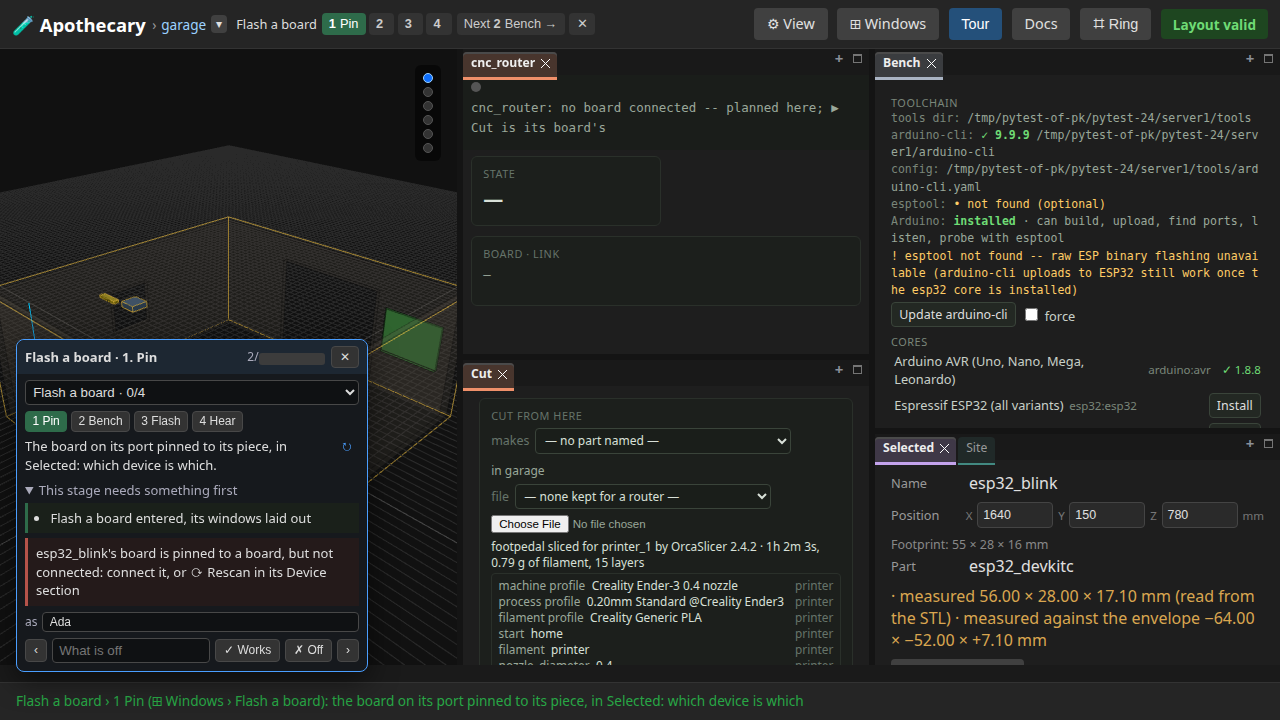
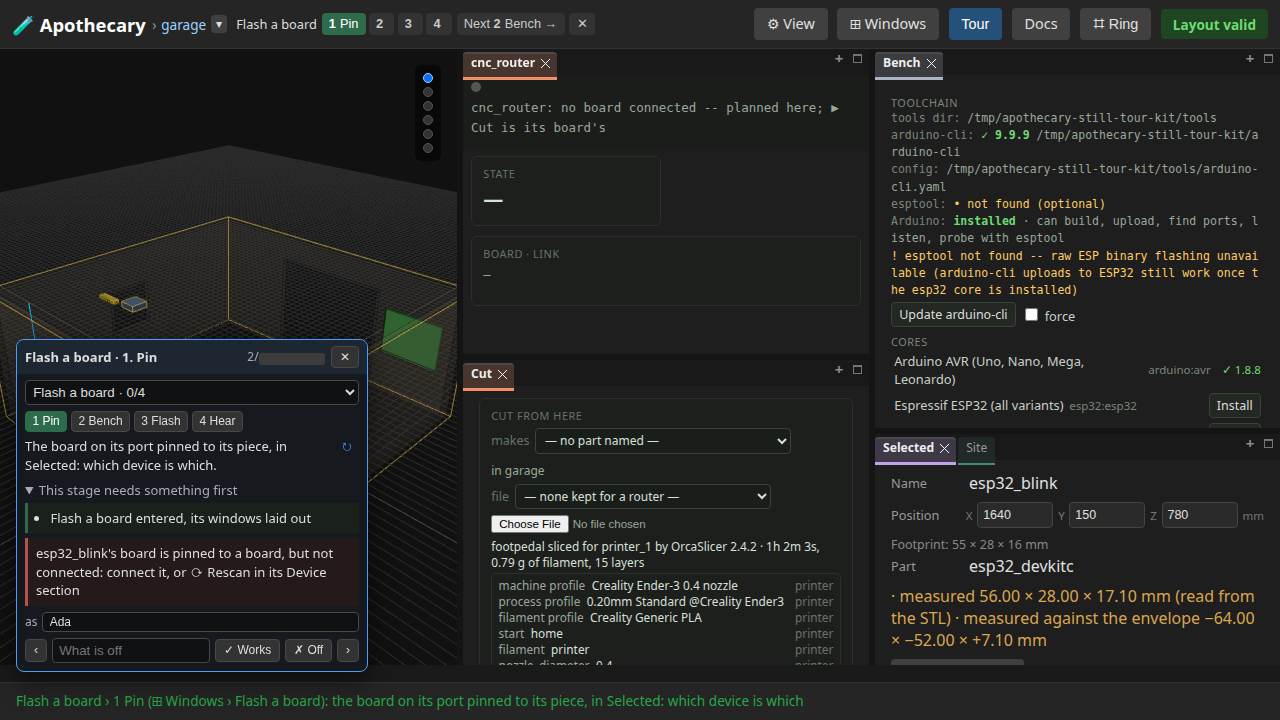
The tour's page names its tools at folders of the same name on every run, so its picture of the Bench's toolchain is still
34-10 pictured the toolchain card, which names the tools, cache and scripted
arduino-cli folders of the tour's server: pytest temp folders carrying the run's
number (server8 under pytest-1103, then pytest-1143), so the picture moved
every run. The server now takes them from /tmp/apothecary-still-tour-kit and its
state from /tmp/apothecary-still-tour-state. Run twice with the page-39 file, the
second run rewrote no picture of page 34.

Tools: Claude Code

Changed region(s): [[0.6875, 0.1528, 0.9688, 0.275]]

diff --git a/tests/e2e/test_tour.py b/tests/e2e/test_tour.py
@@ -25,9 +25,11 @@ import pytest
 import windows
 from boards import BOARD, DWELL, LAYERS, PRINTER
 from doc_capture import MOMENT
+from firmware_helpers import write_fake_arduino_cli
 from garage import open_garage
 from playwright.sync_api import expect
 from rings import open_from_key, press
+from simulated_process import still_folder
 from slicer_helpers import write_fake_orcaslicer
 from viewer_ready import settled
 
@@ -63,18 +65,24 @@ def _words(text: str) -> str:
 
 
 @pytest.fixture(scope="module")
-def state(tmp_path_factory):
-    return tmp_path_factory.mktemp("tour-state")
+def state():
+    return still_folder("tour-state")
 
 
 @pytest.fixture(scope="module")
-def url(start_server, state, tmp_path_factory):
-    orca = write_fake_orcaslicer(tmp_path_factory.mktemp("orca"))
+def url(start_server, state):
+    # Every folder the Bench's card names is at a name of its own: nothing of a pytest temp's
+    # run number is in a picture.
+    kit = still_folder("tour-kit")
+    orca = write_fake_orcaslicer(kit / "orca")
     (state / "tour").mkdir()
     (state / "tour" / "feedback.jsonl").write_text(json.dumps(EARLIER) + "\n", encoding="utf-8")
     url = start_server(
         {
             "APOTHECARY_STATE_DIR": str(state),
+            "APOTHECARY_TOOLS_DIR": str(kit / "tools"),
+            "APOTHECARY_CACHE_DIR": str(kit / "cache"),
+            "ARDUINO_CLI": str(write_fake_arduino_cli(kit / "arduino-cli")),
             "APOTHECARY_SIMULATED_PRINTER": "idle",
             "APOTHECARY_ORCASLICER": str(orca),
             "FAKE_ORCA_LAYERS": LAYERS,
